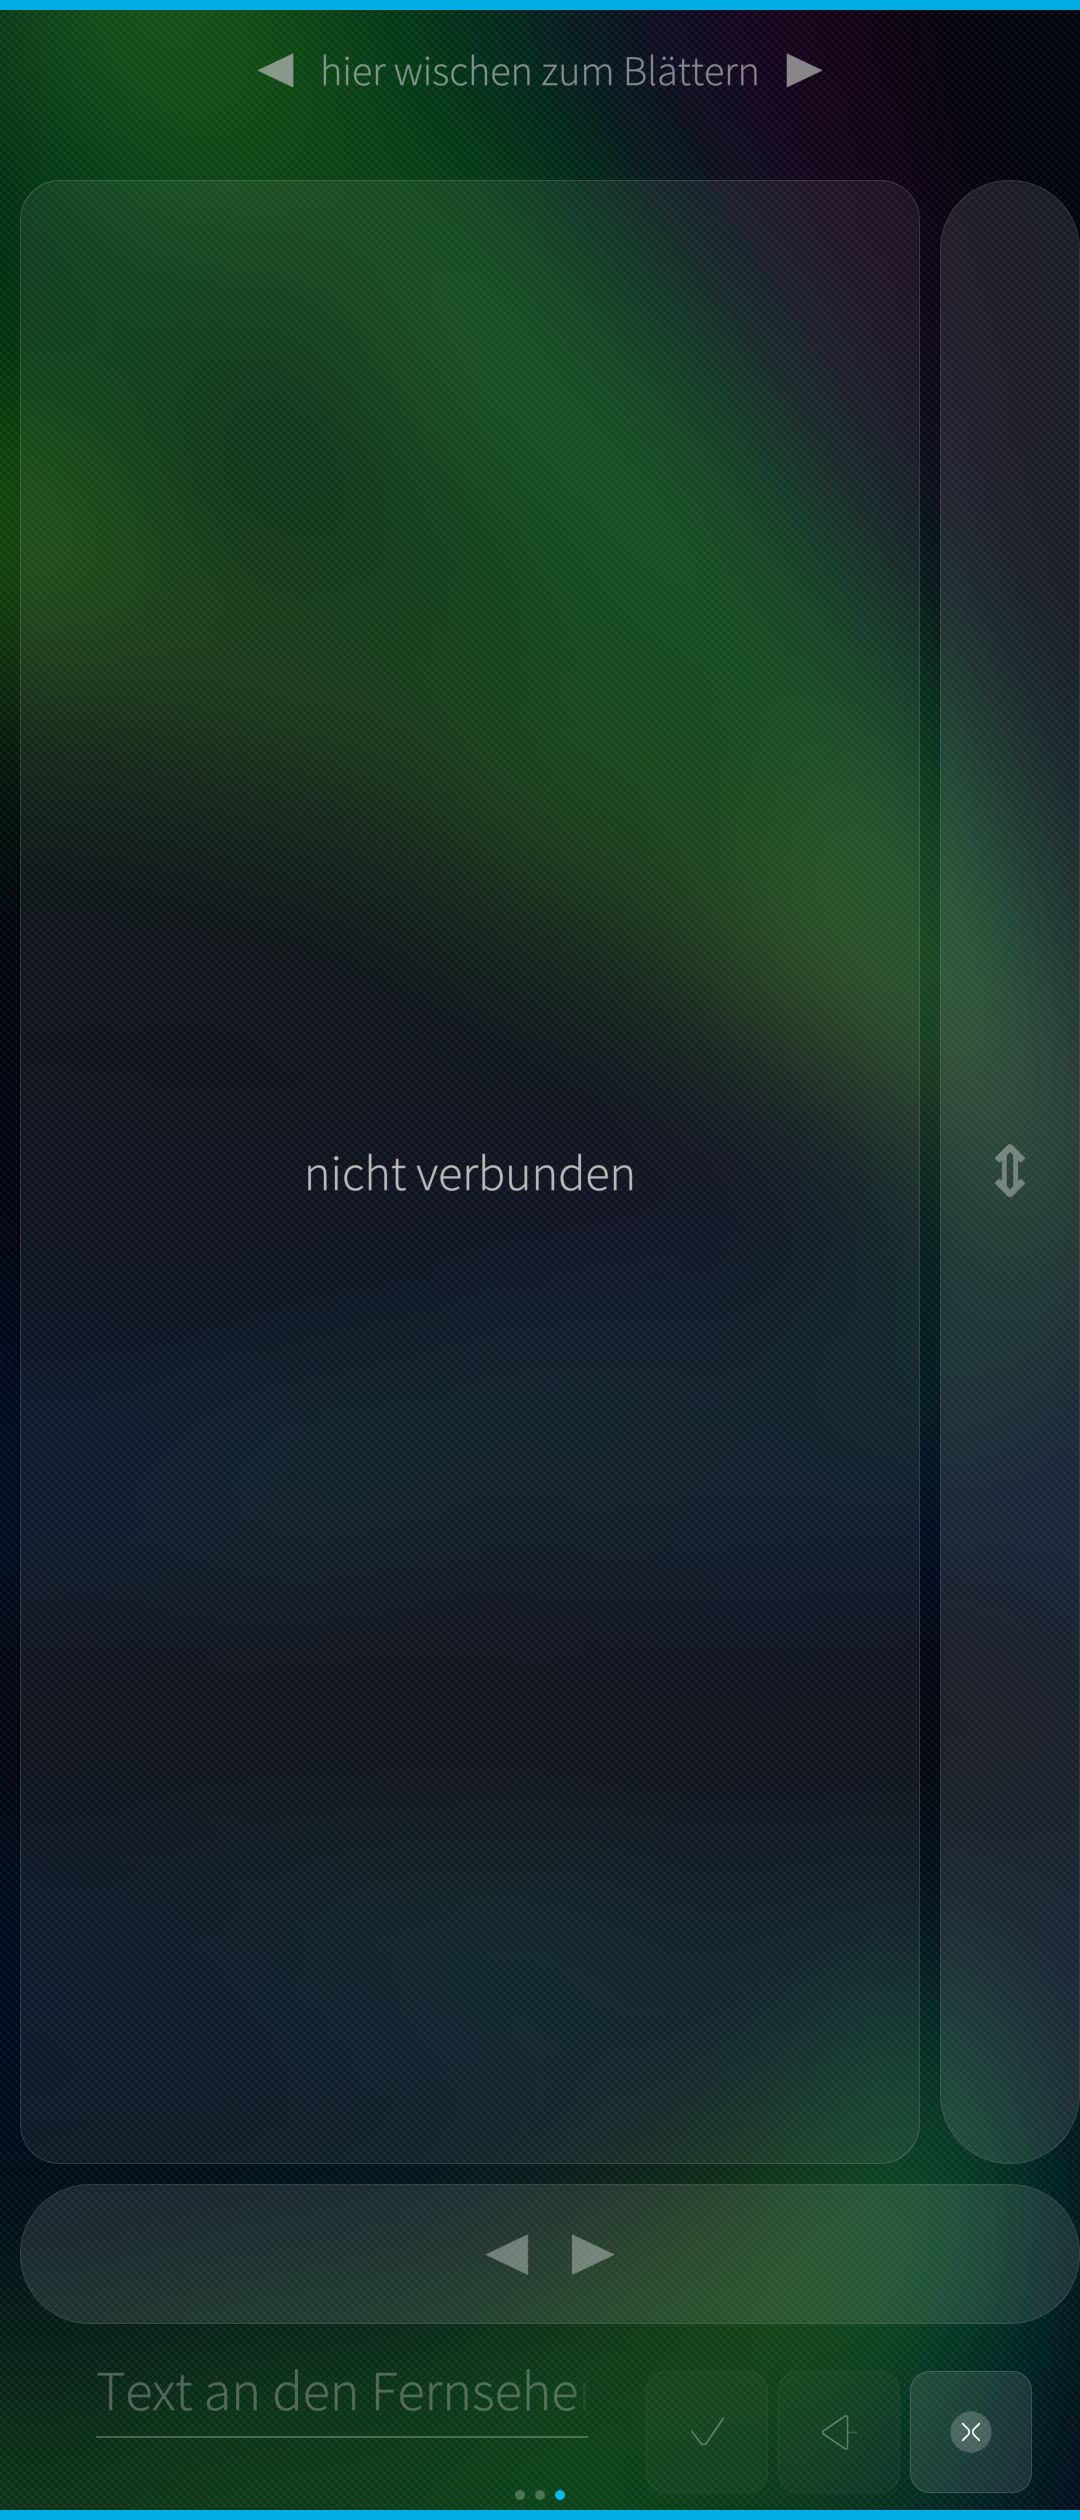
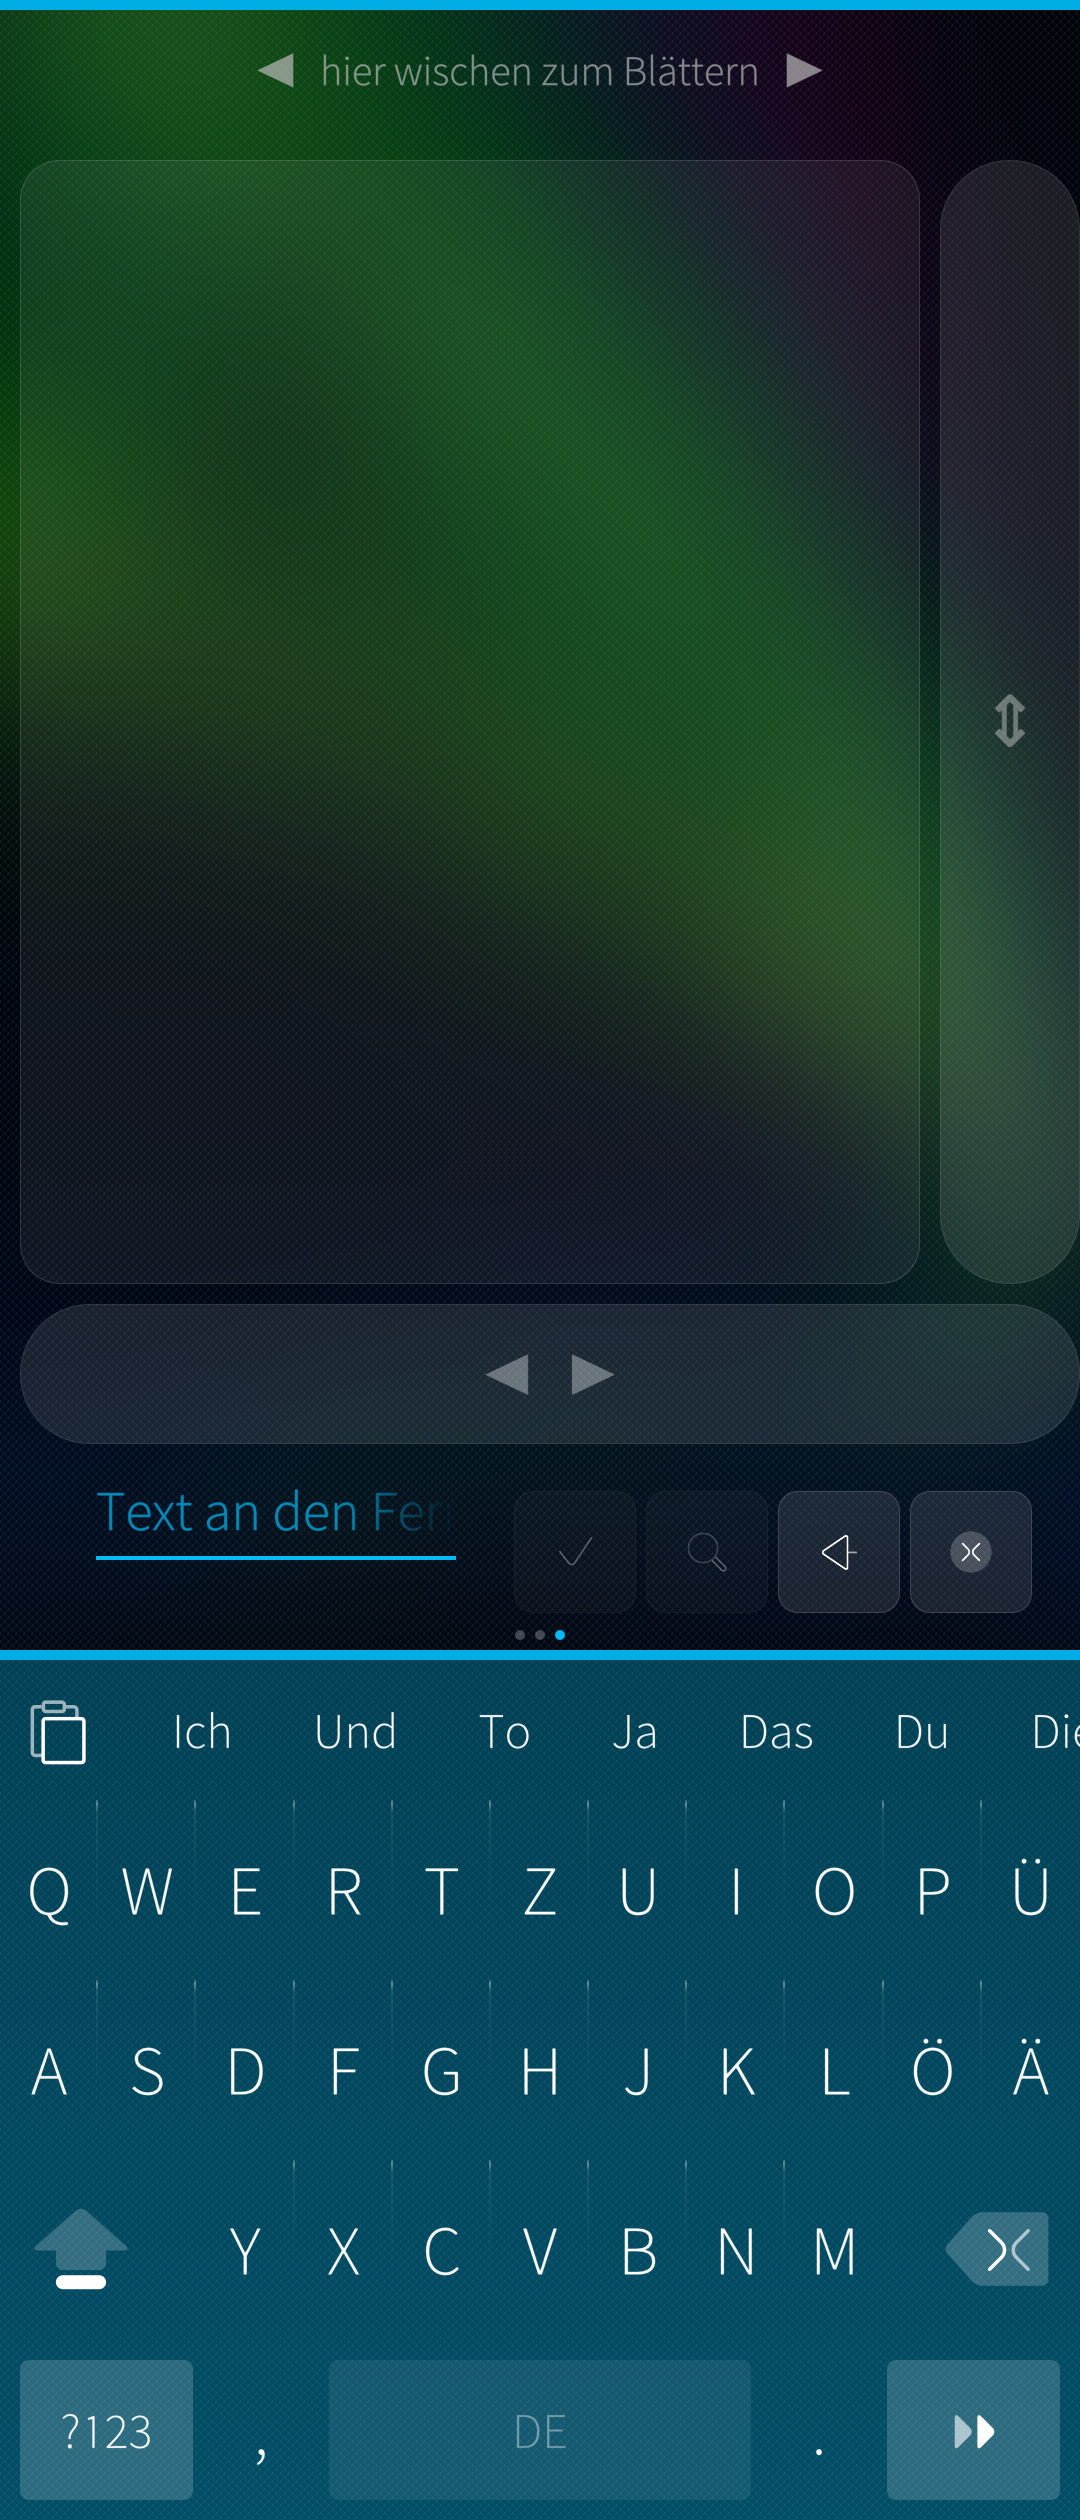
Screenshots: pointer page with the keyboard, and the numbered file names in the README

diff --git a/README.md b/README.md
@@ -13,13 +13,15 @@ stored and switched between.
 
 |  |  |  |
 |---|---|---|
-| ![Remote](docs/screenshots/remote.png) | ![Number pad](docs/screenshots/numbers.png) | ![Pointer](docs/screenshots/pointer.png) |
+| ![Remote](docs/screenshots/1_remote.png) | ![Number pad](docs/screenshots/2_numbers.png) | ![Pointer and keyboard](docs/screenshots/3_pointer.png) |
 
-*(The three carousel pages — remote, number pad, pointer. On the number pad,
-the six quick-launch tiles: five assignable ones — brand logos replaced by
-neutral placeholders here — and the fixed shutter tile.)*
+*(The three carousel pages — remote, number pad, and the pointer page with the
+keyboard: the surface moves the cursor, the text row sends text to a field on
+the TV or searches YouTube. On the number pad, the six quick-launch tiles: five
+assignable ones — brand logos replaced by neutral placeholders here — and the
+fixed shutter tile.)*
 
-![Screenshot taken from the TV](docs/screenshots/tv-capture.jpg)
+![Screenshot taken from the TV](docs/screenshots/4_tv-capture.jpg)
 
 *(What the shutter tile brings back: the TV's current picture at 960×540,
 stored in the gallery. Example content.)*
